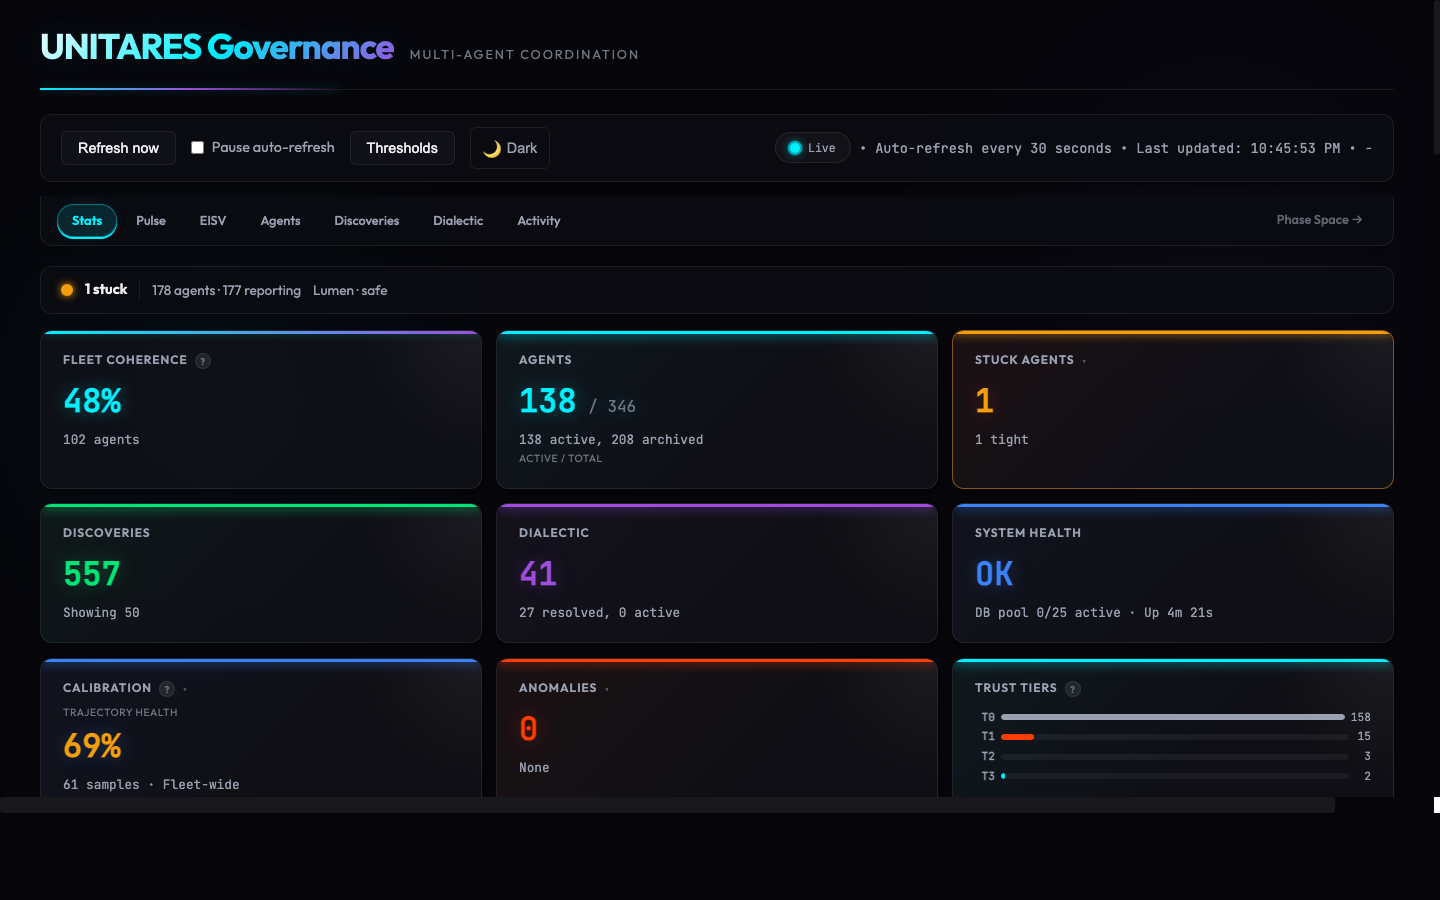
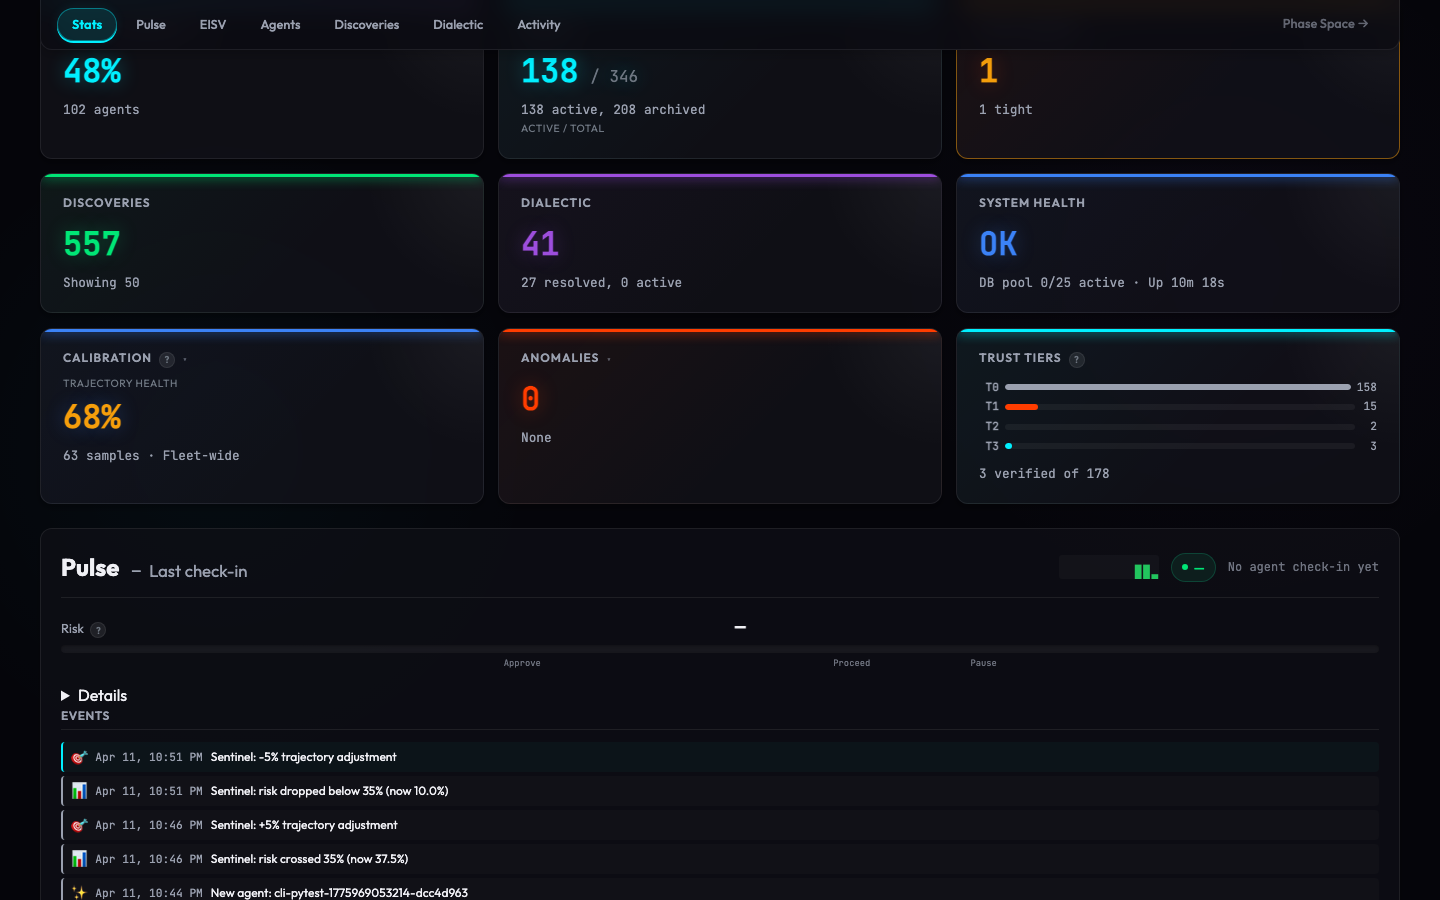
docs: add dashboard screenshots for all sections
Stats overview, pulse feed, agents/discoveries, dialectic sessions,
and activity timeline — all populated with live production data.
Uses collapsible details block to keep README scannable.

diff --git a/README.md b/README.md
@@ -190,12 +190,33 @@ April 2026:
 [Lumen](https://github.com/CIRWEL/anima-mcp) is an embodied agent on a Raspberry Pi: sensors feed check-ins; local drawing is modulated by coherence-related dynamics. See [anima-mcp](https://github.com/CIRWEL/anima-mcp) for hardware and art pipeline details.
 
 <p align="center">
-  <img src="docs/images/dashboard.png" width="80%" alt="UNITARES web dashboard showing fleet coherence, agent status, and system health"/>
+  <img src="docs/images/dashboard.png" width="80%" alt="UNITARES dashboard — stats overview with fleet coherence, agent count, discoveries, and system health"/>
 </p>
 
+<details>
+<summary><strong>More dashboard views</strong> (pulse, EISV charts, agents, dialectic, activity)</summary>
+
 <p align="center">
-  <em>Web dashboard — fleet coherence, agent status, calibration, anomaly detection.</em>
+  <img src="docs/images/dashboard-pulse.png" width="80%" alt="Pulse — live event feed and EISV time series"/>
 </p>
+<p align="center"><em>Pulse — live event feed, drift indicators, and EISV time series charts</em></p>
+
+<p align="center">
+  <img src="docs/images/dashboard-agents.png" width="80%" alt="Agents and Discoveries panels"/>
+</p>
+<p align="center"><em>Agents (sorted by recency, with trust tiers) and Discoveries (filterable by type and time range)</em></p>
+
+<p align="center">
+  <img src="docs/images/dashboard-dialectic.png" width="80%" alt="Dialectic sessions — recovery and review history"/>
+</p>
+<p align="center"><em>Dialectic sessions — failed, resolved, and active recovery sessions with message counts</em></p>
+
+<p align="center">
+  <img src="docs/images/dashboard-activity.png" width="80%" alt="Activity timeline — check-ins, verdicts, discoveries"/>
+</p>
+<p align="center"><em>Activity timeline — filterable event log across all agents</em></p>
+
+</details>
 
 ---
 
